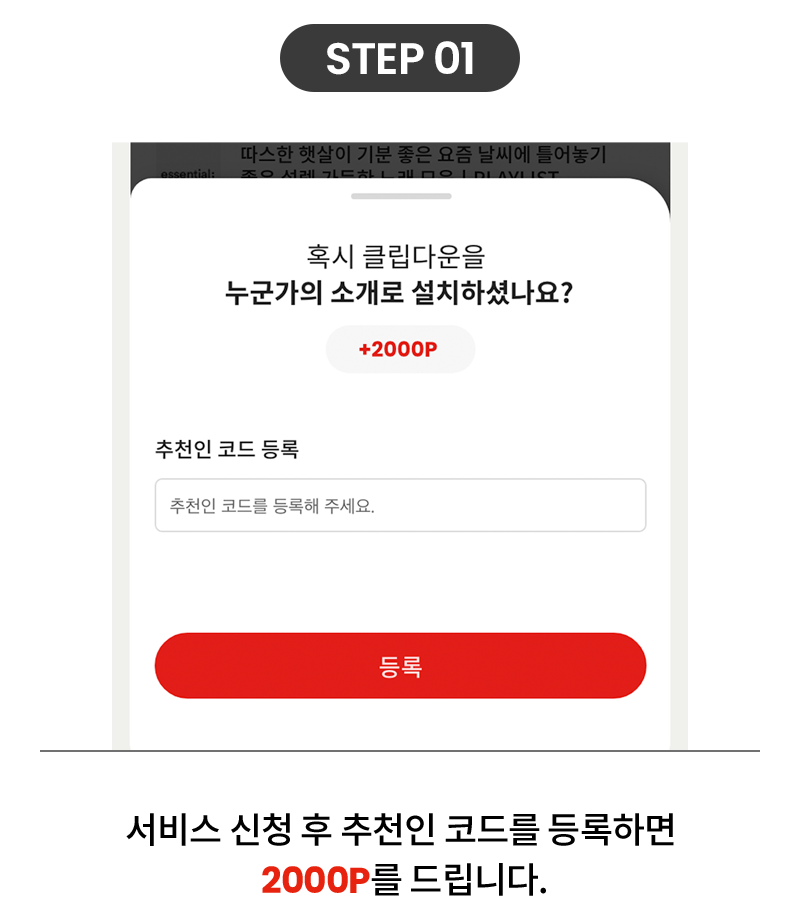
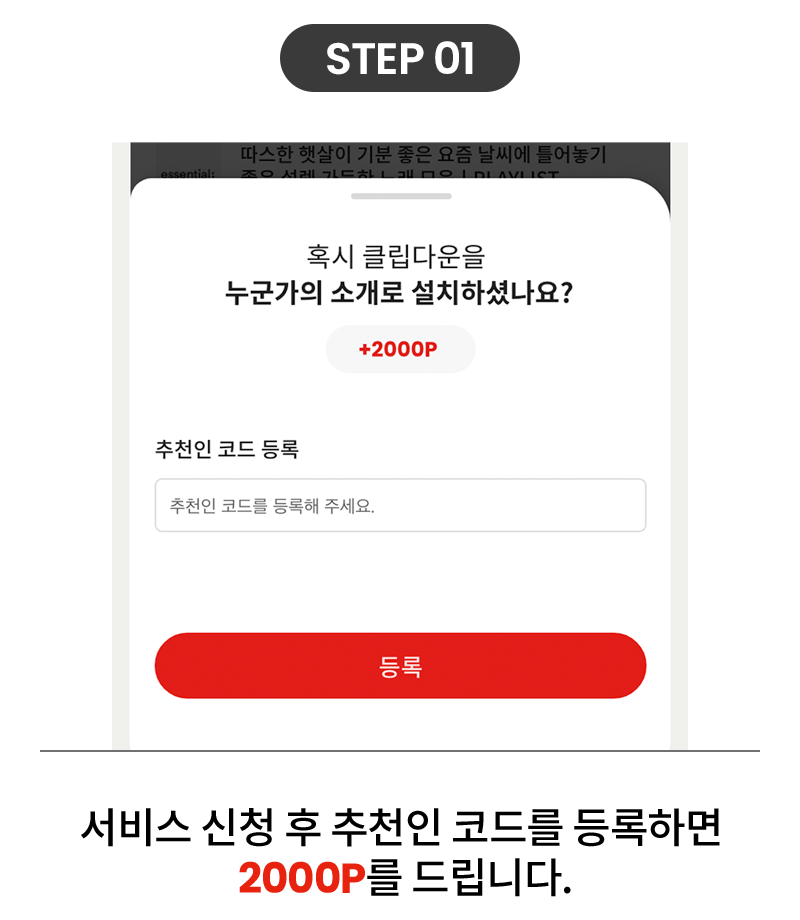
update

Changed region(s): [[0.0938, 0.8826, 0.9062, 0.9739]]

diff --git a/clipdown/2023/webview/reward/resource/css/style_cashmate.css b/clipdown/2023/webview/reward/resource/css/style_cashmate.css
@@ -380,7 +380,7 @@ svg{max-width: 100%; width: 100%; height: 100%;}
     .section_event .content_clipboard .label_text{font-size: 14px; font-size: 1.4rem; margin-right: 10px;}
     .section_event .content_clipboard .code_clipboard{padding: 4px 20px;}
     .section_event .content_clipboard .code_clipboard .text_code{font-size: 13px; font-size: 1.3rem;}
-    .section_event .content_middle .item_info{position: relative; max-width: 260px; margin: 0 auto;}
+    .section_event .content_middle .item_info{position: relative; max-width: 300px; margin: 0 auto;}
 }
 
 /* inquiry Page */
